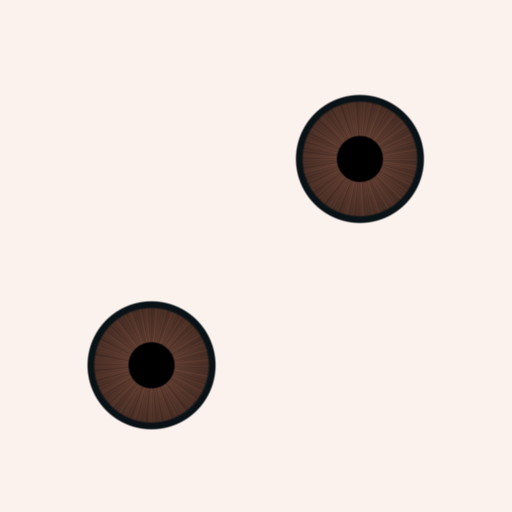
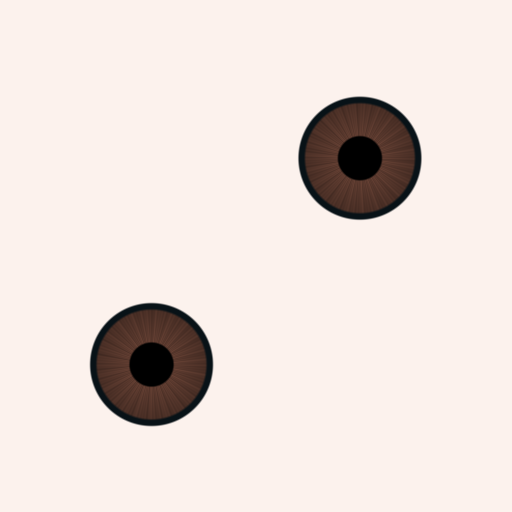
Faces in the style of the owner's chosen series, by kind of person
The owner asked for the cast's faces to match an animated series, sorted
by kind of person. The drawn-head charts now come from the middle of the
series' front, closed-mouth portraits, one chart per sex. A new
parle_style module sculpts what a front chart cannot reach, per kind
(male, male-old, female, female-old; "age": "old" in the job): a bigger,
rounder nose with a bulb at the tip, thicker eyebrows, bigger eyes, warmer
skin. On top of that the lids open to at least 0.58 of the eye's width,
the face loses its pore relief, and the mouth is wider. Judged by sight
against the series over seven rounds: from 3.1 to 4.6 in 10.

diff --git a/tools/parle_style.py b/tools/parle_style.py
@@ -1,0 +1,114 @@
+"""
+    License information: data/licenses/makehuman_license.txt
+
+    The style of the cast's faces, by kind of person (owner, 2026-11-15). He sent the opening of an animated series and asked for the
+    faces to be "idêntico aos rostos dessa série", then "categoriza cada personagem e modifica o makehuman2-parle para isso". Its
+    characters were sorted by kind (24 portraits measured with the ruler of `parle_beauty`; the catalogue stays with the game's
+    repository, next to the registry of the faces), and what sets each kind apart that a chart seen from the front (`parle_head`)
+    cannot give is volume: the young and grown men have a big, long nose with a round tip, the old man a bigger one still and heavy
+    eyebrows, the women a small nose. That is sculpted here, as a field of points with no bpy, by kind: STYLE.
+
+    The kind is the sex and, for the old, "-old" (`kind_of`). A job says it is old with "age": "old"; with nothing said a person is a
+    grown one. No mesh, picture or point of any character is kept: the numbers are read off the middle of each group by sight.
+"""
+import numpy as np
+
+# How much the nose grows about a point behind its tip, and how thick the eyebrows are left (`parle_face.BROW_THIN` is the kind's
+# own default, which this replaces). The series' young men have noses 0.31 to 0.37 of the face long against 0.29 to 0.31 on the cast,
+# and much further out; its old man's is the biggest thing on his face.
+STYLE = {
+    "male": {"forward": 0.95, "nose": 1.9, "tip": 1.6, "brow": 1.8, "eye": 1.25, "skin": 1.3},
+    "male-old": {"forward": 1.0, "nose": 2.4, "tip": 1.75, "brow": 2.2, "eye": 1.25, "skin": 1.3},
+    "female": {"forward": 0.8, "nose": 1.45, "tip": 1.3, "brow": 1.2, "eye": 1.12, "skin": 1.3},
+    "female-old": {"forward": 0.85, "nose": 1.65, "tip": 1.4, "brow": 1.3, "eye": 1.12, "skin": 1.3},
+}
+# Round 3 of the loop judged by sight against the series (2026-11-15, 3.1 in 10) asked first for eyes about a third bigger and round,
+# with white showing and a highlight; then warmer, more saturated skin; a bulb at the tip of the nose; eyebrows half as thick again.
+# Round 7 (4.0): the nose too long and pointed from the side; it is to grow across and round, and come out less ("forward" is how
+# much it grows to the front, against "nose" across and up).
+# Round 6 (3.4) asked for skin smooth and matte, with no relief of pores; a wider mouth; fuller cheeks; thicker, higher eyebrows.
+# Round 4 (3.25) asked first for eyes 40% more open with the white showing, then a bigger nose and fuller cheeks.
+# "eye" multiplies the size the eyes of the kit's sex already take (`parle_polish.eye_scale`); "tip" grows the tip of the nose alone
+# within NOSE_TIP_REACH_M; "skin" is how much more saturated the skin's colour is, turned a little towards orange (SKIN_WARM).
+NOSE_TIP_REACH_M = 0.016
+# How round an eye opens at least, its height over its width: the series' eyes are 0.6 to 0.7 (read on its portraits); the cast's
+# lids gave 0.42, with the iris filling the opening (round 5).
+EYE_TALL_LEAST = 0.58
+# How much the eye's own map lights it (emission): the white of the series' eyes is white even in the shade of the brow.
+EYE_GLOW = 0.0
+SKIN_WARM = 0.012
+# The nose's reach about its tip, in metres; below the tip it is shorter (NOSE_BELOW), so the upper lip stays where it was, and up
+# the bridge longer (NOSE_ABOVE). The middle it grows about stands NOSE_BACK behind the tip, a little above it.
+NOSE_REACH_M = 0.032
+NOSE_BELOW = 2.2
+NOSE_ABOVE = 0.75
+NOSE_BACK_M = 0.024
+NOSE_UP_M = 0.004
+
+
+def kind_of(sex, job):
+    """The kind of a person: "female" or "male", with "-old" when the job says the person is old."""
+    if sex not in ("female", "male"):
+        raise ValueError(f"no style for {sex!r}")
+    return sex + ("-old" if str((job or {}).get("age", "")) == "old" else "")
+
+
+def smooth(t):
+    t = np.clip(t, 0, 1)
+    return t * t * (3 - 2 * t)
+
+
+def nose_tip(points, eyes):
+    """The tip of the nose: the point furthest to the front (-y) on the middle line, between a little and some way below the eyes."""
+    centres = np.array([centre for centre, _ in eyes], float)
+    middle = centres.mean(axis=0)
+    unit = float(np.linalg.norm(centres[0] - centres[1]))
+    near = (np.abs(points[:, 0] - middle[0]) < 0.1 * unit) & (points[:, 2] < middle[2] - 0.25 * unit) & (points[:, 2] > middle[2] - 1.1 * unit)
+    if not near.any():
+        raise ValueError("no nose on the middle line under the eyes")
+    found = points[near]
+    return found[np.argmin(found[:, 1])]
+
+
+def nose_field(tip, grow, forward=None):
+    """`field(points)`: each point near the nose moved away from a middle behind the tip by (grow - 1) of its distance, fading out."""
+    middle = np.asarray(tip, float) + np.array([0.0, NOSE_BACK_M, NOSE_UP_M])
+    forward = grow if forward is None else forward
+
+    def field(points):
+        points = np.asarray(points, float)
+        off = points - tip
+        tall = np.where(off[:, 2] < 0, off[:, 2] * NOSE_BELOW, off[:, 2] * NOSE_ABOVE)
+        away = np.sqrt(off[:, 0] ** 2 + off[:, 1] ** 2 + tall ** 2) / NOSE_REACH_M
+        # Only the face: nothing behind the middle (the cheeks and the inside of the head stay).
+        front = smooth((middle[1] + 0.006 - points[:, 1]) / 0.012)
+        share = smooth(1 - away) * front
+        return points + share[:, None] * (points - middle) * (np.array([grow, forward, grow]) - 1)
+
+    return field
+
+
+def eye_grow(sex):
+    """How much bigger than its sex's own size an eye of the series' style is; the same for young and old."""
+    return STYLE[kind_of(sex, {})]["eye"]
+
+
+def tip_field(tip, grow, forward=1.0):
+    """The bulb at the tip of the nose: points within NOSE_TIP_REACH_M of the tip grown about a middle a little behind it."""
+    middle = np.asarray(tip, float) + np.array([0.0, 0.6 * NOSE_TIP_REACH_M, 0.0])
+
+    def field(points):
+        points = np.asarray(points, float)
+        share = smooth(1 - np.linalg.norm(points - tip, axis=1) / NOSE_TIP_REACH_M)
+        return points + share[:, None] * (points - middle) * (np.array([grow, forward, grow]) - 1)
+
+    return field
+
+
+def warmer(rgb, amount):
+    """Colours (0-1, n x 3) with their saturation times `amount` about their grey and turned SKIN_WARM towards orange."""
+    rgb = np.asarray(rgb, float)
+    grey = rgb.mean(axis=1, keepdims=True)
+    out = grey + (rgb - grey) * amount
+    out = out + np.array([1.0, 0.25, -0.6]) * SKIN_WARM
+    return np.clip(out, 0, 1)

diff --git a/tools/parle_face.py b/tools/parle_face.py
@@ -24,6 +24,7 @@ import parle_mouth  # noqa: E402
 import parle_mouth_arkit  # noqa: E402
 import parle_mouth_close  # noqa: E402
 import parle_polish  # noqa: E402
+import parle_style  # noqa: E402
 import parle_normals  # noqa: E402
 import parle_teeth  # noqa: E402
 import parle_tongue  # noqa: E402
@@ -114,10 +115,11 @@ REST_SMILE = {"female": 0.05, "male": 0.12}
 # 0.195 and 0.203, nose 0.30 against 0.302 (read off the shapes of the finished bodies). The judge by sight had asked for a face
 # less square; on the shape of the face the owner's eye decides.
 FAIR_LOOK = {
-    "female": {"faceNoseWidth": -0.3, "faceNoseLength": -0.2, "noseShape-curto": 0.3, "noseShape-ponta-arredondada": 0.3, "faceJaw": -0.1, "faceCheek": 0.4,
-               "faceEyeSpacing": 0.4, "faceBrowHeight": 0.2, "faceChin": 0.25, "faceEyeOpen": 0.0, "eyeWideLeft": 0.5, "eyeWideRight": 0.5, "faceEyeTilt": 0.3,
+    "female": {"faceNoseWidth": -0.3, "faceNoseLength": -0.2, "noseShape-curto": 0.3, "noseShape-ponta-arredondada": 0.3, "faceJaw": -0.1, "faceCheek": 0.9,
+               "faceEyeSpacing": 0.4, "faceBrowHeight": 0.2, "faceChin": 0.25, "faceEyeOpen": 0.0, "eyeWideLeft": 1.0, "eyeWideRight": 1.0, "faceEyeTilt": 0.3,
                "mouthSmileLeft": REST_SMILE["female"], "mouthSmileRight": REST_SMILE["female"]},
-    "male": {"mouthSmileLeft": REST_SMILE["male"], "mouthSmileRight": REST_SMILE["male"]},
+    # The series' men have round eyes with white showing (2026-11-15): the lids open half again, as the women's.
+    "male": {"eyeWideLeft": 1.0, "eyeWideRight": 1.0, "faceCheek": 0.8, "mouthSmileLeft": REST_SMILE["male"], "mouthSmileRight": REST_SMILE["male"]},
 }
 # The traits of a person's own that make her eyes bigger or more open than the kit's (`<head>.glb.face.json`, read off the game's
 # face of that person by the game's repository and already in the rest shape when the look is given). The game's faces have eyes
@@ -149,7 +151,7 @@ BROW_ARCH = {"female": 0.5, "male": 0.6}
 # way: its whole reach on the eyebrow is 3 mm.
 # The men's too, once their arch came down (`BROW_ARCH`): flattened where it was, it lay on the eye, a slab, and its height over
 # the eye read 12% of the face where Rafa's reads 15 (`parle_beauty.brow_high`, 2026-11-12).
-BROW_LIFT_M = {"female": 0.003, "male": 0.003}
+BROW_LIFT_M = {"female": 0.003, "male": 0.006}
 # The traits of the look that open or close the lids at rest, and the shapes that shut them: a point a blink moves this far or
 # more gives back the whole of what those traits moved it (`blink_still_closes`).
 LID_TRAITS = ("faceEyeOpen", "eyeWideLeft", "eyeWideRight")
@@ -281,7 +283,7 @@ SPEECH_MIX = {
 # and the same women's in the game 30 to 38%; the lips have since been given a form of their own (`LIPS_FULL`) and the mouth sent
 # back (`MOUTH_BACK`), which is what the pout was. +0.1 left it at 38%, to the judge by sight still twice the width of the nose
 # where Sofia's is one and a half: -0.25, about 35%.
-MOUTH_WIDE = {"female": -0.25, "male": 0.0}
+MOUTH_WIDE = {"female": 0.5, "male": 0.7}
 MOUTH_CORE_M = 0.006
 MOUTH_FADE_M = 0.02
 TEETH_DOWN_M = 0.0035
@@ -963,8 +965,22 @@ def clean_face(body, added, job, env):
     for obj in [item for item in added if item.type == "MESH" and "low-poly" in item.name]:
         parle_polish.round_globes(obj)
     own = own_traits(job)
-    calm_look([body, *(obj for obj in added if obj.type == "MESH" and any(word in obj.name for word in ("eyebrow", "teeth", "tongue", "low-poly")))], LIP_THIN[sex], MOUTH_BACK[sex], MOUTH_WIDE[sex], CHIN_BACK[sex], UNDER_LIP_ROUNDS[sex], LIPS_FULL[sex], LIPS_CUPID[sex], CHIN_LONGER[sex], fair_look(sex, own), BROW_THIN[sex], BROW_OUTER[sex], BROW_LONG[sex], BROW_ARCH[sex], BROW_LIFT_M[sex], UPPER_LIP_VOLUME[sex], own)
+    style = parle_style.STYLE[parle_style.kind_of(sex, job)]
+    calm_look([body, *(obj for obj in added if obj.type == "MESH" and any(word in obj.name for word in ("eyebrow", "teeth", "tongue", "low-poly")))], LIP_THIN[sex], MOUTH_BACK[sex], MOUTH_WIDE[sex], CHIN_BACK[sex], UNDER_LIP_ROUNDS[sex], LIPS_FULL[sex], LIPS_CUPID[sex], CHIN_LONGER[sex], fair_look(sex, own), style["brow"], BROW_OUTER[sex], BROW_LONG[sex], BROW_ARCH[sex], BROW_LIFT_M[sex], UPPER_LIP_VOLUME[sex], own)
     soften_pout(body, POUT_FORWARD[sex])
+    globe = next((obj for obj in added if obj.type == "MESH" and "low-poly" in obj.name), None)
+    if globe is None:
+        raise ValueError("no eye globes: the nose of the kind cannot be found, and every face of the cast is drawn")
+    tip = parle_style.nose_tip(parle_polish.rest_points(body), parle_polish.eye_balls(globe))
+    parle_polish.warp(body, parle_style.nose_field(tip, style["nose"], style["forward"]), kept=parle_polish.keeps_its_move)
+    parle_polish.warp(body, parle_style.tip_field(tip, style["tip"], style["forward"]), kept=parle_polish.keeps_its_move)
+    print("NARIZ do tipo", parle_style.kind_of(sex, job), "cresceu", style["nose"], "e a ponta", style["tip"])
+    skin = next((node.image for node in body.active_material.node_tree.nodes if node.type == "TEX_IMAGE" and node.image), None)
+    if skin is not None:
+        pixels = np.array(skin.pixels[:]).reshape(-1, 4)
+        pixels[:, :3] = parle_style.warmer(pixels[:, :3], style["skin"])
+        skin.pixels.foreach_set(pixels.astype(np.float32).ravel())
+        skin.pack()
     keep_lining_inside(body)
     tongue_follows_jaw([obj for obj in added if obj.type == "MESH" and obj.data.shape_keys])
     for obj in [item for item in added if item.type == "MESH" and "teeth" in item.name]:
@@ -995,6 +1011,11 @@ def clean_face(body, added, job, env):
                 shader = obj.active_material.node_tree.nodes.get("Principled BSDF")
                 if shader:
                     shader.inputs["Roughness"].default_value = EYE_ROUGHNESS
+                    # The eye lit from inside a little, as the series' are: in the orbit the white read grey (round 8 of the loop).
+                    texture = next((node for node in obj.active_material.node_tree.nodes if node.type == "TEX_IMAGE"), None)
+                    if texture is not None:
+                        obj.active_material.node_tree.links.new(texture.outputs["Color"], shader.inputs["Emission Color"])
+                        shader.inputs["Emission Strength"].default_value = parle_style.EYE_GLOW
                 for polygon in obj.data.polygons:
                     polygon.use_smooth = True
     # Last: the steps above tell the lips, the lining and the gums apart by how far the open jaw carries them.

diff --git a/tools/parle_polish.py b/tools/parle_polish.py
@@ -17,6 +17,7 @@ from mathutils.kdtree import KDTree
 import parle_build
 import parle_bust
 import parle_head
+import parle_style
 import parle_limbs
 import parle_rig
 
@@ -221,7 +222,8 @@ EYE_TALL_MOST = 0.43
 # apartment's neighbour, 0.41). The men keep 0.43: Rafa's reads no rounder than the café's owner's. On the size and the opening of
 # the eye the owner's eye decides: shown the pharmacy's attendant and the pet shop's on the drawn head, each with the opening held
 # to 0.43 and let go to 0.50, he took the rounder one the same day ("A mais aberta").
-EYE_TALL_MOST_BY_SEX = {"female": 0.50}
+# The series the owner chose on 2026-11-15 has round eyes, 0.6 to 0.7 as tall as wide.
+EYE_TALL_MOST_BY_SEX = {"female": 0.62, "male": 0.62}
 # How much of a point's weight on the head makes it the head's own for the drawn head (`drawn_head`).
 HEAD_WHOLE = 0.4
 # A trial of another limit without touching this file (`eye_round_most`): a QA door, not a mode of the cast.
@@ -229,6 +231,7 @@ EYE_ROUND_TRIAL = "PARLE_EYE_ROUND"
 EYE_TALL_STEP_M = 0.0004
 EYE_TALL_ROUNDS = 5
 EYE_TALL_BLINK_MOST = 0.35
+EYE_OPEN_BLINK_MOST = 0.6
 FAIR_SOFT_FROM = 0.15
 # The lips are the points their own traits move by this share or more. They take part with a small weight: point against point
 # their sculpted form came out rough, a row of ridges along the upper lip (2026-11-12, in clay), and a small weight takes out what
@@ -548,7 +551,8 @@ def globes_behind_skin(meshes):
 
 def eye_scale(kit):
     """How many times their own size the eyes of a kit are."""
-    return next((scale for sex, scale in EYE_SCALE_BY_SEX.items() if str(kit).startswith(sex)), EYE_SCALE)
+    sex = next((sex for sex in ("female", "male") if str(kit).startswith(sex)), "male")
+    return EYE_SCALE_BY_SEX.get(sex, EYE_SCALE) * parle_style.eye_grow(sex)
 
 
 def bigger_eyes(meshes, eye, scale=EYE_SCALE):
@@ -718,6 +722,18 @@ MOUTH_MOVES = ("viseme_", "jawOpen", "mouth", "tongue")
 
 def keeps_its_move(name):
     return name.startswith(MOUTH_MOVES)
+
+
+def matte_skin(body):
+    """The skin smooth and matte, as the series' (2026-11-15, round 6 of the loop judged by sight: "pele lisa e fosca, sem o relevo
+    de poros ou caroços"): the normal map laid on the skin is let go. How many links went."""
+    if body.active_material is None or not body.active_material.use_nodes:
+        return 0
+    tree = body.active_material.node_tree
+    gone = [link for link in tree.links if link.to_node.type == "BSDF_PRINCIPLED" and link.to_socket.name == "Normal"]
+    for link in gone:
+        tree.links.remove(link)
+    return len(gone)
 
 
 def drawn_head(meshes, rig, sex):
@@ -1304,11 +1320,14 @@ def eye_round_most(sex):
     return float(os.environ.get(EYE_ROUND_TRIAL) or EYE_TALL_MOST_BY_SEX.get(sex, EYE_TALL_MOST))
 
 
-def eyes_no_rounder(meshes, most=EYE_TALL_MOST):
+def eyes_no_rounder(meshes, most=EYE_TALL_MOST, least=0.0):
     """The opening of an eye is no taller than `most` of its width. Where one is, the rest shape of both eyes takes the share of
     their blinks that brings it there: the upper lid comes down on the globe the way it shuts, and the blink still ends where it
     ended. For each blink (BLINKS): how wide the opening, how tall it was and how tall it is, in metres, and the share of the blink
-    taken. The same share for the two eyes; every other shape keeps its move. The face looks at -y."""
+    taken. The same share for the two eyes; every other shape keeps its move. The face looks at -y.
+    An opening less tall than `least` of its width takes a share of its blink the other way, the upper lid going up off the iris
+    (2026-11-15: the series the owner chose has round eyes with white about the iris, and the cast's lids lay on it, "dark slits" to
+    the judge by sight), at most EYE_OPEN_BLINK_MOST of the blink; that share is given as a negative one."""
     body = next((obj for obj in meshes if obj.name == "Body"), None)
     eye = next((obj for obj in meshes if "low-poly" in obj.name), None)
     blocks = body.data.shape_keys.key_blocks if body is not None and body.data.shape_keys else None
@@ -1350,13 +1369,17 @@ def eyes_no_rounder(meshes, most=EYE_TALL_MOST):
     def too_round(opening):
         return any(tall > most * wide for wide, tall in opening.values() if wide > 0)
 
+    def too_flat(opening):
+        return any(tall < least * wide for wide, tall in opening.values() if wide > 0)
+
     before = shown(0.0)
     share, after = 0.0, before
-    if too_round(before):
-        low, share = 0.0, EYE_TALL_BLINK_MOST
+    if too_round(before) or (least and too_flat(before)):
+        wrong = too_round if too_round(before) else too_flat
+        low, share = 0.0, EYE_TALL_BLINK_MOST if wrong is too_round else -EYE_OPEN_BLINK_MOST
         for _ in range(EYE_TALL_ROUNDS):
             middle = (low + share) / 2
-            if too_round(shown(middle)):
+            if wrong(shown(middle)):
                 low = middle
             else:
                 share = middle
@@ -1615,8 +1638,10 @@ def natural_body(meshes, rig, height, sex, kit):
         print("OLHO", tucked, "pontos do globo de volta para trás da pele, depois do corpo pronto")
     for name, (was, left) in blinks_shut(meshes).items():
         print("PISCADA", name, "fresta de", round(was * 1000, 1), "mm com a pálpebra fechada; ficou", round(left * 1000, 1), "mm")
-    for name, (wide, was, tall, share) in eyes_no_rounder(meshes, eye_round_most(sex)).items():
+    for name, (wide, was, tall, share) in eyes_no_rounder(meshes, eye_round_most(sex), parle_style.EYE_TALL_LEAST).items():
         print("OLHO", name, "abertura de", round(wide * 1000, 1), "por", round(was * 1000, 1), "mm; ficou com", round(tall * 1000, 1), "mm de altura,", round(share, 2), "da piscada")
+    if body is not None:
+        print("PELE lisa: relevo tirado de", matte_skin(body), "ligações")
     if sex == "female" and body is not None and globe is not None:
         import parle_lip_cut  # here and not above: it reads this module
 

diff --git a/tests/test_parle_style.py b/tests/test_parle_style.py
@@ -1,0 +1,33 @@
+"""Regression for the style by kind of person (2026-11-15): run with `python tests/test_parle_style.py` (no Blender).
+
+The owner asked for the faces of one animated series, by kind of person. The nose of each kind grows about a middle behind its tip,
+across more than to the front, and the upper lip and the cheeks stay; every kind has its numbers; a sex with no style is refused."""
+import sys
+from pathlib import Path
+
+import numpy as np
+
+sys.path.insert(0, str(Path(__file__).parent.parent / "tools"))
+import parle_style  # noqa: E402
+
+assert set(parle_style.STYLE) == {"male", "male-old", "female", "female-old"}, "a kind of person has no style"
+assert parle_style.kind_of("male", {"age": "old"}) == "male-old" and parle_style.kind_of("female", {}) == "female"
+try:
+    parle_style.kind_of("dog", {})
+    raise AssertionError("a body that is neither a woman nor a man gets a style")
+except ValueError:
+    pass
+men, old = parle_style.STYLE["male"], parle_style.STYLE["male-old"]
+assert men["nose"] > parle_style.STYLE["female"]["nose"] and old["nose"] > men["nose"], "the series' men have the bigger nose, the old the biggest"
+assert old["brow"] > men["brow"] > parle_style.STYLE["female"]["brow"], "the eyebrows of the kinds are not in the series' order"
+
+tip = np.array([0.0, -0.1, 1.6])
+field = parle_style.nose_field(tip, 1.6, 0.9)
+side = np.array([[0.01, -0.09, 1.6]])
+assert field(side)[0, 0] > side[0, 0] * 1.2, "the nose does not grow across"
+assert abs(field(tip[None])[0, 1] - tip[1]) < abs(field(side)[0, 0] - side[0, 0]), "the nose comes out more than it widens"
+lip, cheek = np.array([[0.0, -0.095, 1.6 - 0.02]]), np.array([[0.045, -0.07, 1.6]])
+assert np.allclose(field(lip), lip, atol=2e-4) and np.allclose(field(cheek), cheek), "the upper lip or the cheek moves with the nose"
+grey = np.array([[0.6, 0.5, 0.45]])
+assert np.ptp(parle_style.warmer(grey, 1.3)) > np.ptp(grey), "the skin is not more saturated"
+print("ok")

diff --git a/tools/eye_texture.py b/tools/eye_texture.py
@@ -23,7 +23,7 @@ CENTRES = ((0.703, 0.273), (0.296, 0.676))
 # and asked for the iris bigger with the opening (2026-11-12, `parle_face.FAIR_LOOK`): on a drawn face the iris fills more of the eye.
 # At 0.13 it filled the opening from lid to lid, with slivers of white: "two dark beads" (the same judge, five rounds on). Against
 # the width of the face it measured 0.109, Sofia's 0.097 and the same woman's in the game 0.101: a little smaller.
-IRIS_RADIUS = 0.125
+IRIS_RADIUS = 0.12
 # The cast has no eye bones and the globe rests looking slightly up: without this the pupil touches the upper lid.
 # Measured on a woman of the cast (2026-11-12), the lids opened from 5 to 8 degrees above the middle of the iris to 21 to 27 below
 # it: at 0.2 the upper lid still lay across the top of the pupil. With the lids as they are now (`parle_face.FAIR_LOOK`), at 0.3
@@ -52,11 +52,14 @@ LIMBUS_SHARE = 0.90
 # never b* over a* (the orange). Chroma 20 / 17 (a* = b* = 14.1 and 12.0) sits inside the dark-brown a* (12 to 23) and b* (7.7 to 15)
 # ranges but below each class mean: the full measured chroma is HSV saturation 0.67, more than the orange we are removing. Chroma is
 # also a choice by eye, to be judged in the player. Converted to sRGB.
-IRISES = {
+# The series the owner chose on 2026-11-15 has lighter, clearer brown irises: a judge by sight against it asked for them a quarter
+# lighter (round 8 of the loop), so each colour is IRIS_LIGHTER times the one chosen above.
+IRIS_LIGHTER = 1.0
+IRISES = {name: tuple(min(1.0, value * IRIS_LIGHTER) for value in colour) for name, colour in {
     "castanho-escuro": (0.16, 0.2, 0.316),
     "castanho": (0.202, 0.251, 0.393),
     "mel": (0.307, 0.47, 0.64),
-}
+}.items()}
 LIMBUS = np.array((0.09, 0.07, 0.03))
 PUPIL = np.array((0.0, 0.0, 0.0))
 SCLERA = np.array((0.93, 0.95, 0.99))

diff --git a/tests/test_parle_head.py b/tests/test_parle_head.py
@@ -121,5 +121,5 @@ assert "smooth(group_share(obj, head) / HEAD_WHOLE)" in step and "edit_bones" in
 body = polish.split("def natural_body(meshes, rig, height, sex, kit):")[1].split("\n\n\ndef ")[0]
 assert body.index("drawn_head(meshes, rig, sex)") < body.index("natural_build(meshes, rig, height, kit)"), "the head takes its shape before the build"
 assert "if drawn" not in body and body.count("drawn_head(") == 1, "the body can go on without its drawn head"
-assert "eyes_no_rounder(meshes, eye_round_most(sex))" in body, "the eyes of a drawn head open no rounder than the kit's own limit"
+assert "eyes_no_rounder(meshes, eye_round_most(sex), parle_style.EYE_TALL_LEAST)" in body, "the eyes of a drawn head open between the least and the most of their kind"
 print("ok")
